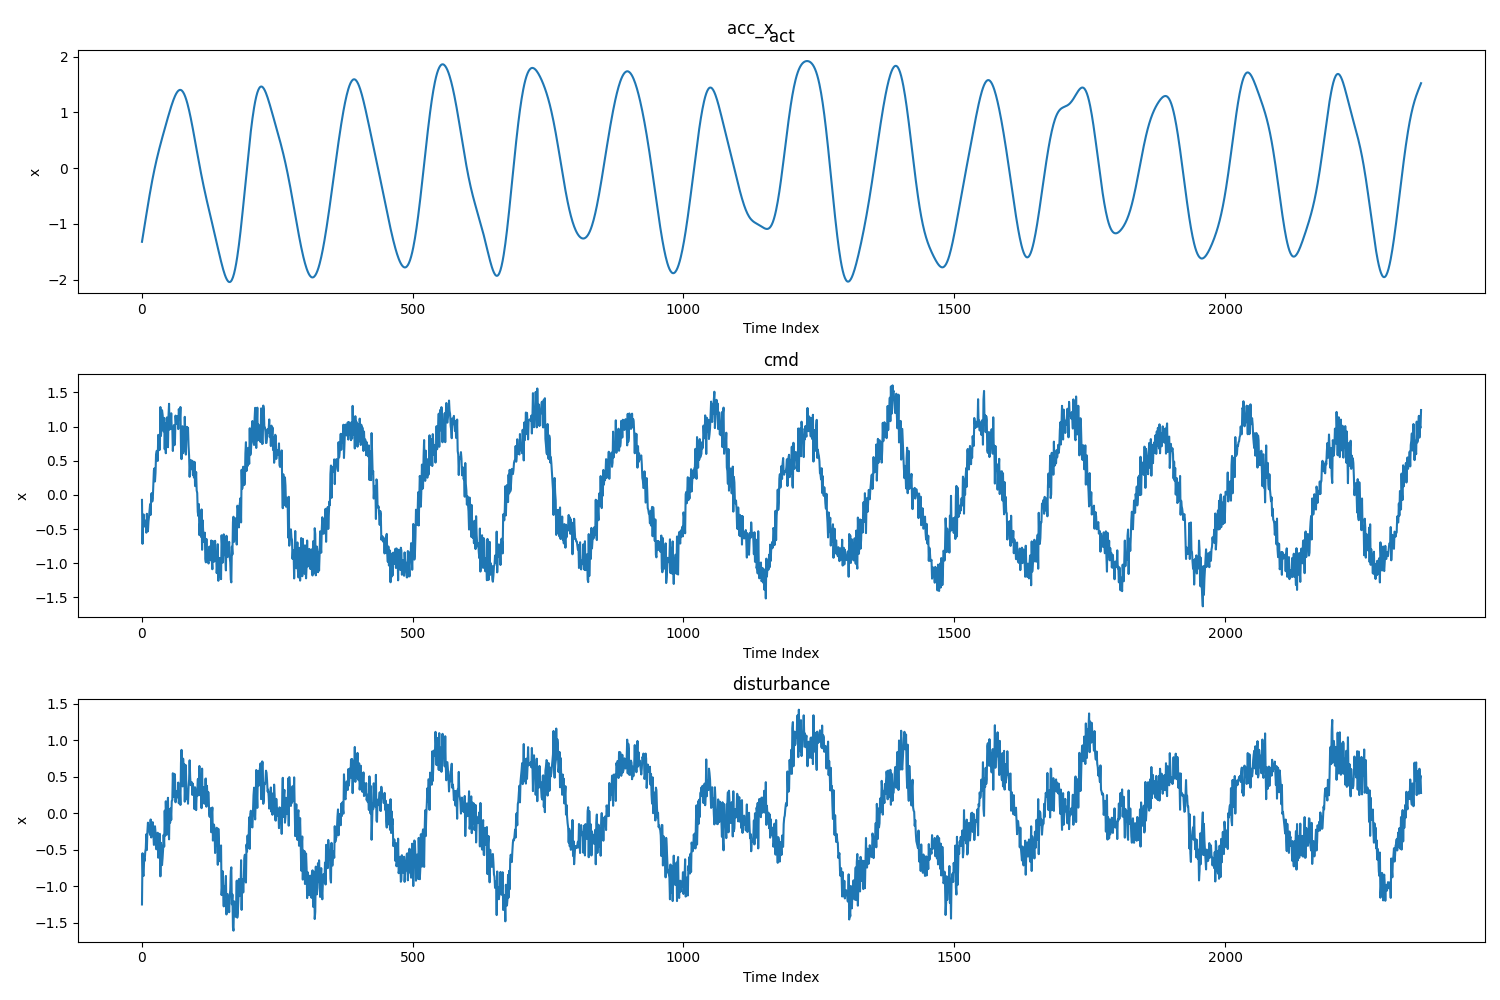
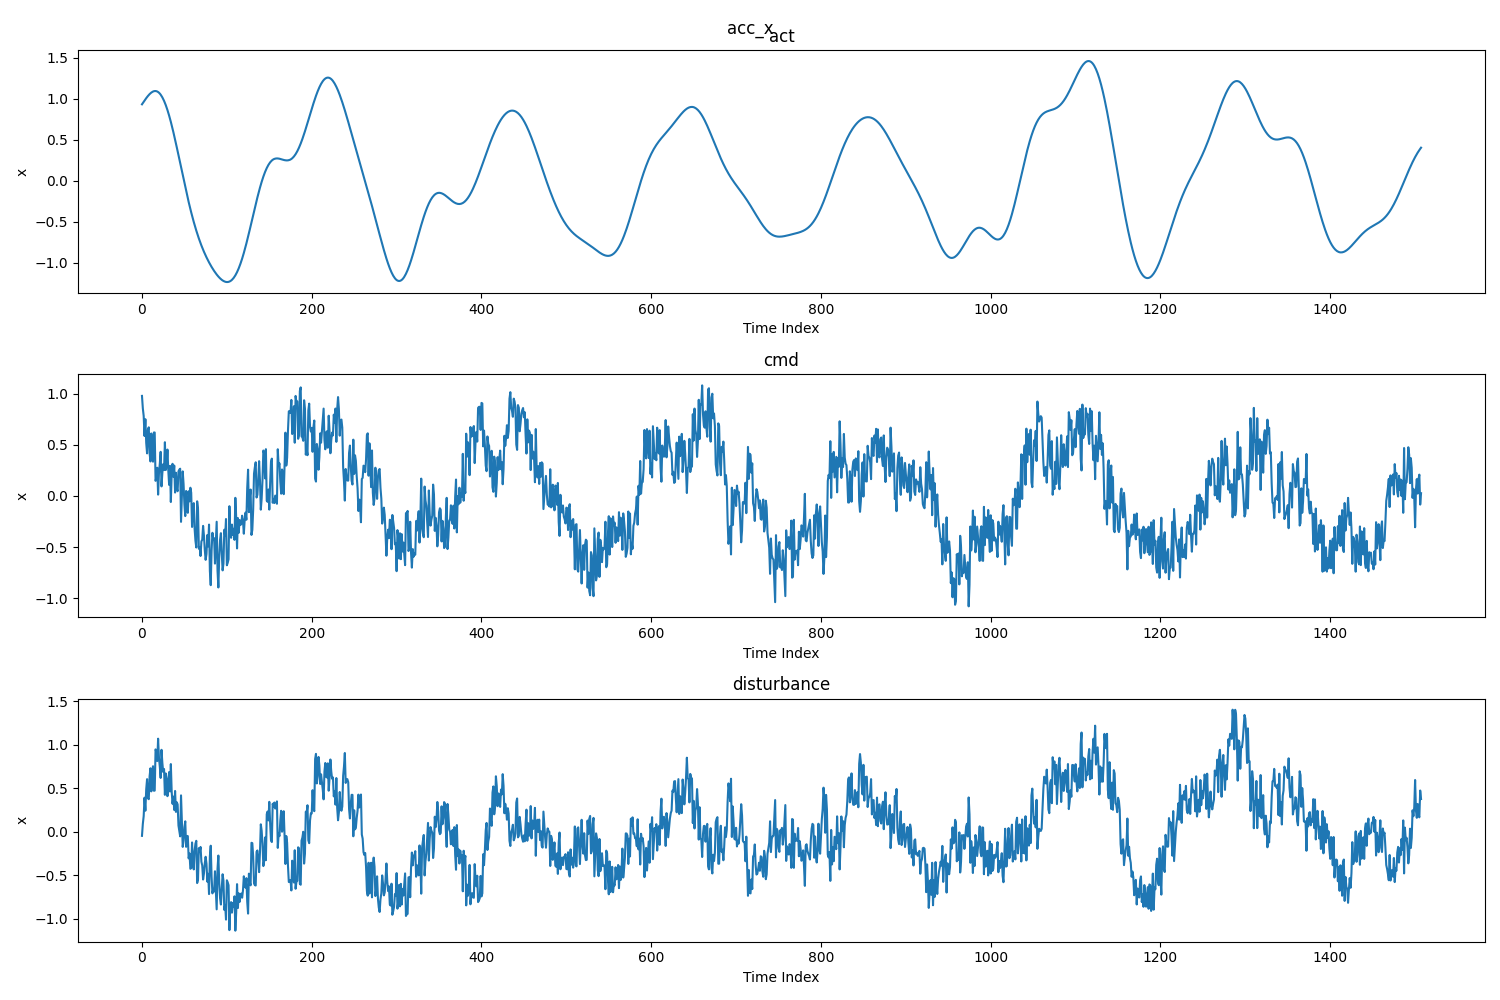
README.md

diff --git a/GP/gp_advanced/plot_trajectory_ref.py b/GP/gp_advanced/plot_trajectory_ref.py
@@ -28,8 +28,9 @@ center_y = 0
 
 home_path = '/Users/albusfang/Coding Projects/gp_ws/Gaussian Process/GP/gp_advanced/recorded_data/'
 
-
-######################## Circle Paths ##################
+########################################################################
+######################## Circle Paths ##################################
+########################################################################
 ##### NOTE: The 'threshold' and 'cutoff' for each dataset are calculated and displayed beneath the bag_path of the dataset ######
 ##### NOTE: Replace the 'threshold' and 'cutoff' variables in this file with the value beneath each bag_path. Please do not uncomment the values #####
 home_path = home_path + 'circle_data/'
@@ -48,13 +49,14 @@ home_path = home_path + 'circle_data/'
 #bag_path = '/Users/albusfang/Coding Projects/gp_ws/Gaussian Process/GP/gp_advanced/recorded_data/eight_traj_r0.4_w2_c0.40_h0.4_fanhigh'
 #(1000, len(x_data) - 2500)
 
-######################## Figure Eight Paths ##################
-
+########################################################################
+######################## Figure Eight Paths ############################
+########################################################################
 home_path = home_path.replace('circle_data', 'eight_data')
 
-# bag_path = home_path + 'eight_traj_r0.2_w1.5_c0.80_h0.4_fanhigh'
+bag_path = home_path + 'eight_traj_r0.2_w1.5_c0.80_h0.4_fanhigh'
 #(threshold, cutoff) = (1200, len(x_data)-3500)
-bag_path = home_path + 'eight_traj_r0.2_w2_c1.20_h0.4_fanhigh'
+#bag_path = home_path + 'eight_traj_r0.2_w2_c1.20_h0.4_fanhigh'
 #(threshold, cutoff) = (200, len(x_data)-800)
 #bag_path = home_path + 'eight_traj_r0.2_w2.5_c1.20_h0.4_fanhigh'
 #(threshold, cutoff) = (600, len(x_data)-600)
@@ -133,8 +135,8 @@ with Reader(bag_path) as reader:
 # print("z max: ", max(z_data))
 # print("z min: ", min(z_data))
 assert len(x_data) == len(y_data) == len(z_data), "Lengths of the lists are not the same."
-cutoff = len(x_data) - 800
-threshold = 200
+cutoff = len(x_data) - 3500
+threshold = 1200
 
 
 print("cutoff, threshold = ", cutoff, threshold)

diff --git a/GP/gp_advanced/plot_acc.py b/GP/gp_advanced/plot_acc.py
@@ -93,7 +93,7 @@ with Reader(bag_path) as reader:
             #disturbance.append(acc_diff)
 
 acc_arr = np.array(acc_arr)
-np.save("recorded_acc.npy",acc_arr)
+
 filtered_acc = apply_fft_filter_to_columns(acc_arr, sampling_rate=5000)
 acc_cmd_arr = np.array(acc_cmd_arr)
 #np.save("cmd_arr.npy",acc_cmd_arr)
@@ -125,6 +125,7 @@ def plot_same_dim(array1, array2, array3, dim, title, figure_number, path = home
 plot_same_dim(filtered_acc[threshold:cutoff], filtered_cmd[threshold:cutoff], disturbance[threshold:cutoff], 0, 'acc_x', 1)
 plot_same_dim(filtered_acc[threshold:cutoff], filtered_cmd[threshold:cutoff], disturbance[threshold:cutoff], 1, 'acc_y', 2)
 plot_same_dim(filtered_acc[threshold:cutoff], filtered_cmd[threshold:cutoff], disturbance[threshold:cutoff], 2, 'acc_z', 3)
+np.save("recorded_acc.npy",acc_arr[threshold:cutoff,:])
 # for i in range(3):
 #     fig = plt.figure(i+1)
 #     ax1 = plt.subplot2grid((3,1), (0,0) , rowspan=1)

diff --git a/GP/gp_advanced/README.md b/GP/gp_advanced/README.md
@@ -15,6 +15,14 @@ Use `plot_acc.py` to plot out filtered `acc_x`, `acc_y`, and `acc_z`. Use `fft.p
 To train GP on all collected datasets with various speeds and coordinates, one would need to crop off the takeoff and landing data for each data set and stitch the cropped datasets together. Run `gp_data_prep.py` to first filter the disturbance and then concatenate the data points together. If the new data set is the same as the existing dataset, the new data won't be concatenated. The concatenated disturbance dataset will be stored in `disturbance.py` and the stitched input dataset will be stored in `input.py`; adjust the name to suit your purpose.
 
 
-## GP Training and Plotting
+# GP Training and Plotting
 
 Use `gp.py` to train gp model for all 3 dimensions of the filtered disturbance with respect to all six inputs. The script saves its training dataset, test dataset, and the whole data set.
+
+## Steps to train GP Model
+1. Use `plot_trajectory_ref.py` to select `bag_path` and adjust `threshold` and `cutoff` to crop off takeoff and landing data.
+2. Optional: use `plot_acc.py` to visualize filtered acc, recorded acc_cmd, and disturbance.
+3. Optional: After running `plot_acc.py`, `recorded_acc.npy` will be saved. Use `fft.py` to read it in and visualize the frequency domain signal.
+4. Use `gp_data_prep.py` to stitch data from various trajectories together to generate the data set for `gp.py`
+5. Run `gp.py` to see the results, which also saves the model into 'gp_models' folder. Adjust the name of the model if necessary.
+6. After `gp.py` has saved the model and images, use load_gp.py to load in the models and see the results for test dataset.
